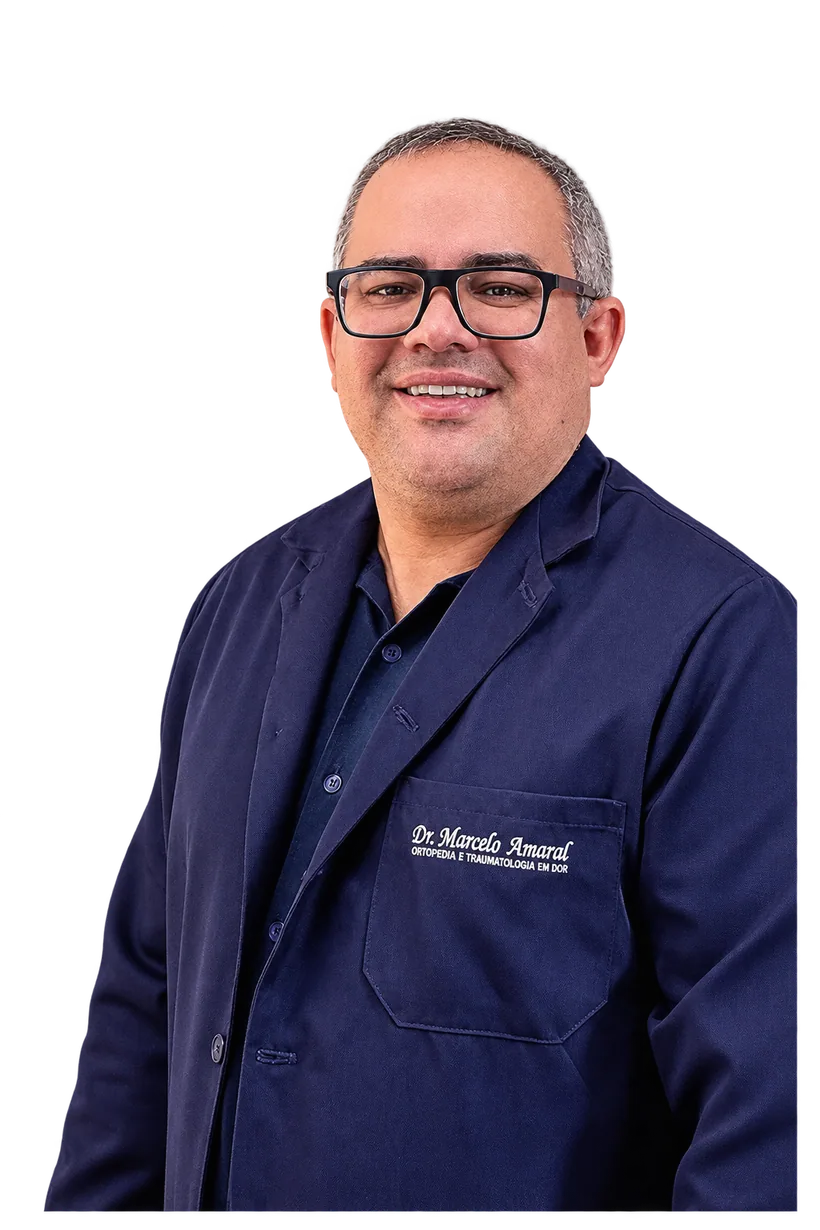
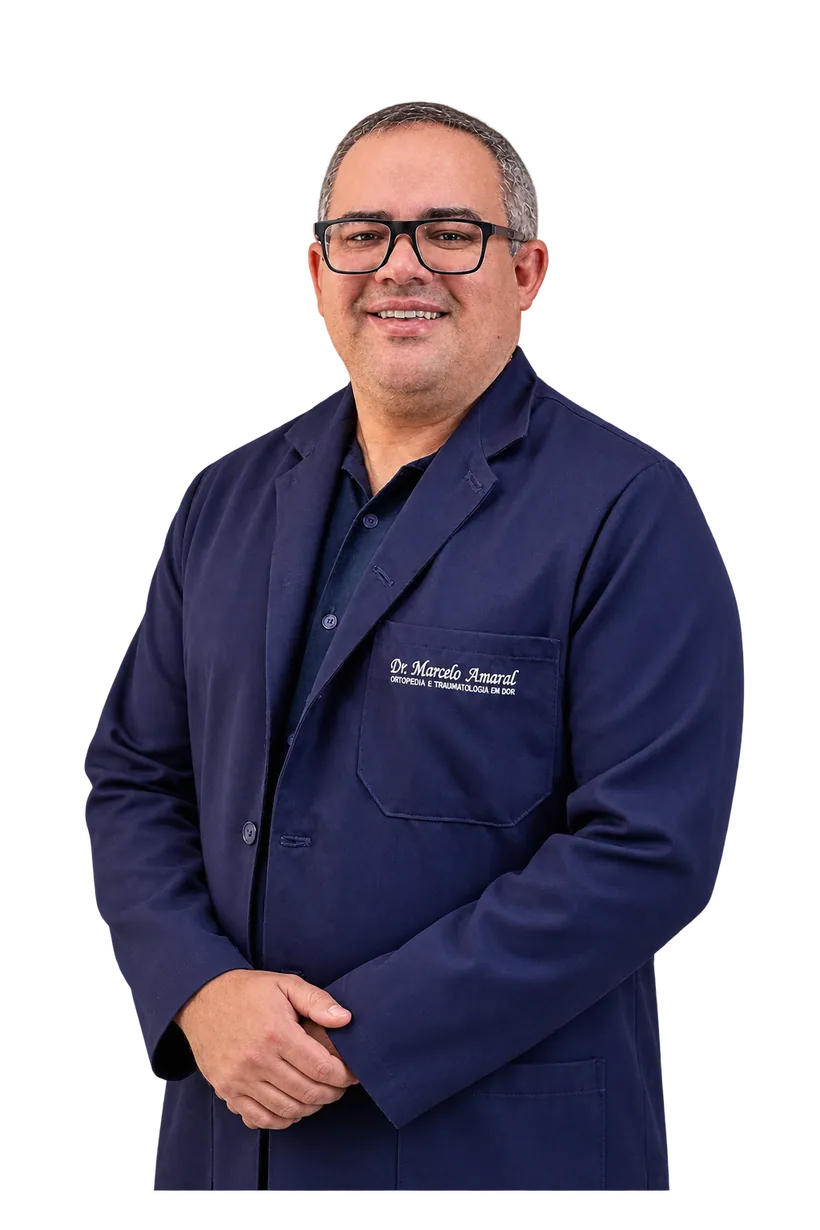
Keep campaign portrait fully framed

diff --git a/app/agenda/weekly.css b/app/agenda/weekly.css
@@ -24,11 +24,11 @@
 .weekly-day:hover{transform:translate3d(0,-2px,0);border-color:rgba(19,40,92,.18);box-shadow:0 18px 42px rgba(19,40,92,.07)}
 .weekly-date{position:relative;padding-left:16px}
 .weekly-date::before{content:"";position:absolute;top:3px;bottom:3px;left:0;width:2px;border-radius:2px;background:linear-gradient(180deg,var(--orange),rgba(240,155,72,.18))}
-.weekly-photo,.weekly-people>li:nth-child(3n+2) .weekly-photo,.weekly-people>li:nth-child(3n) .weekly-photo{position:relative;isolation:isolate;border:1px solid rgba(31,58,124,.1);border-radius:16px 16px 5px 5px;background:linear-gradient(145deg,#e8eef8 0%,#cfdaed 100%);box-shadow:inset 0 1px 0 rgba(255,255,255,.74);transition:border-color .4s ease,box-shadow .4s ease,transform .45s cubic-bezier(.22,1,.36,1)}
-.weekly-photo::before{content:"";position:absolute;z-index:-1;top:14%;left:50%;width:76%;aspect-ratio:1;border:1px solid rgba(31,58,124,.1);border-radius:50%;transform:translateX(-50%)}
+.weekly-photo,.weekly-people>li:nth-child(3n+2) .weekly-photo,.weekly-people>li:nth-child(3n) .weekly-photo{position:relative;isolation:isolate;border:1px solid rgba(255,255,255,.11);border-radius:16px 16px 5px 5px;background:radial-gradient(circle at 50% 34%,rgba(88,119,195,.52),transparent 58%),linear-gradient(145deg,#203d83 0%,#10245d 100%);box-shadow:inset 0 1px 0 rgba(255,255,255,.12);transition:border-color .4s ease,box-shadow .4s ease,transform .45s cubic-bezier(.22,1,.36,1)}
+.weekly-photo::before{content:"";position:absolute;z-index:-1;top:14%;left:50%;width:76%;aspect-ratio:1;border:1px solid rgba(255,255,255,.13);border-radius:50%;transform:translateX(-50%)}
 .weekly-person:hover .weekly-photo{transform:translate3d(0,-3px,0);border-color:rgba(31,58,124,.2);box-shadow:0 14px 24px rgba(19,40,92,.09),inset 0 1px 0 rgba(255,255,255,.82)}
-.weekly-photo img{position:relative;z-index:1;filter:saturate(.96) contrast(1.02)}
-.weekly-preview{background:linear-gradient(145deg,#e8eef8 0%,#cfdaed 100%)}
+.weekly-photo img{position:relative;z-index:1;filter:saturate(.98) contrast(1.03) drop-shadow(0 8px 12px rgba(4,12,42,.2))}
+.weekly-preview{background:radial-gradient(circle at 50% 34%,rgba(88,119,195,.52),transparent 58%),linear-gradient(145deg,#203d83 0%,#10245d 100%)}
 
 @media(max-width:700px){
   .weekly-caption{gap:16px;padding-top:10px}

diff --git a/app/hero-campaigns.css b/app/hero-campaigns.css
@@ -46,7 +46,7 @@
   .hero-campaign-nav{right:18px;bottom:19px}
   .hero-campaign-nav button{width:27px}
   .hero-campaign-nav button.is-active{width:42px}
-  .hero-campaign-portrait-cutout .hero-campaign-visual>picture{right:-3%;bottom:-12%;width:72%;height:104%}
+  .hero-campaign-portrait-cutout .hero-campaign-visual>picture{right:0;bottom:0;width:70%;height:94%}
   .hero-campaign-portrait-cutout .hero-campaign-visual::before{right:-18%;top:8%;width:90%}
   .hero-campaign-portrait-cutout .hero-campaign-visual::after{right:-2%;top:21%;width:57%}
   .hero-campaign-portrait-cutout .hero-campaign-shade{background:linear-gradient(180deg,transparent 15%,rgba(5,15,52,.035) 100%)}
